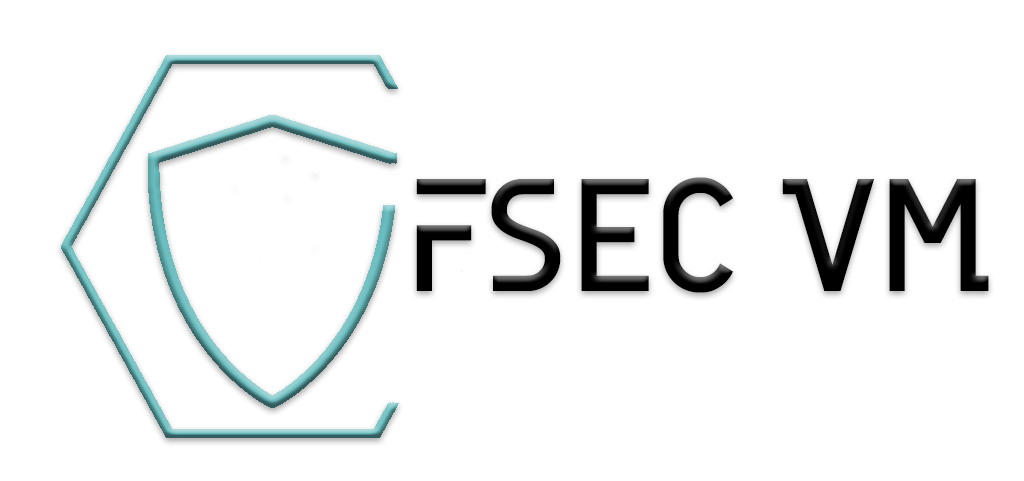
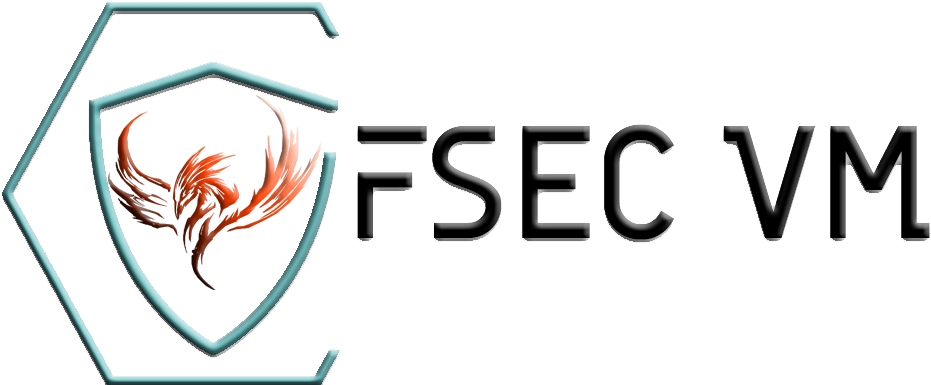
feat: create api hostdiscovery

Changed region(s): [[0.0, 0.0, 1.0, 1.0]]

diff --git a/fsec/templates/base.html b/fsec/templates/base.html
@@ -27,8 +27,7 @@
 <nav class="navbar navbar-expand-lg navbar-light bg-light">
   <div class="container-fluid">
     <a class="navbar-brand" href="/">
-    <img src="{{ url_for('static', filename='images/name.png') }}" alt="FSEC VM" height="20"></a>
-{#      <span class="navbar-toggler-icon"></span>#}
+    <img src="{{ url_for('static', filename='images/logo_name.png') }}" alt="FSEC VM" height="50"></a>
     <div class="collapse navbar-collapse" id="navbarNavAltMarkup">
       <div class="navbar-nav">
[1 lines of base64/hex data omitted]
@@ -41,10 +40,13 @@
[1 lines of base64/hex data omitted]
       </div>
     </div>
+
[1 lines of base64/hex data omitted]
   </div>
 </nav>
+
 {% block content %}
+
 {% endblock %}
 </body>
 

diff --git a/fsec/templates/login.html b/fsec/templates/login.html
@@ -154,7 +154,9 @@
  <div class="row">
  <div class="col-md-8 offset-md-2">
  <form class="form-horizontal" method="POST" action="login">
-<img height="300px" class="center-pic" src="{{ url_for('static', filename='images/fsec.png') }}" />
+ <p></p>
+     <img height="300px" class="center-pic" src="{{ url_for('static', filename='images/logo_name.png') }}" />
+ <p></p>
      {% with messages = get_flashed_messages() %}
         {% if messages %}
         <div class="alert alert-danger">

diff --git a/fsec/templates/inventory.html b/fsec/templates/inventory.html
@@ -1,5 +1,7 @@
 {% extends "base.html" %}
 
 {% block content %}
+<h5><small>ИНВЕНТАРИЗАЦИЯ СЕТИ</small></h5>
+      <hr>
 
 {% endblock %}

diff --git a/fsec/templates/index.html b/fsec/templates/index.html
@@ -1,5 +1,6 @@
 {% extends "base.html" %}
 
 {% block content %}
-
+<h5><small>ГЛАВНАЯ</small></h5>
+      <hr>
 {% endblock %}

diff --git a/fsec/modules/hostdiscovery/hostdiscovery.py b/fsec/modules/hostdiscovery/hostdiscovery.py
@@ -5,12 +5,6 @@ from fsec.database import MessageProducer, MongoDriver
 from datetime import datetime
 
 
-def get_time() -> str:
-    """
-    """
-    return datetime.now().strftime("%H:%M:%S %d.%m.%Y")
-
-
 class AbstractDiscovery:
     """
     """
@@ -70,7 +64,7 @@ class HostDiscovery(AbstractDiscovery):
                 "host": host,
                 "hostname": result[host]["hostname"],
                 "macaddress": result[host]["macaddress"],
-                "time": get_time()
+                "time": datetime.now().strftime("%H:%M:%S %d.%m.%Y")
             }
             data_ip = message_host_discovery.get_message({"host": str(host)})
             if data_ip is None:
@@ -79,7 +73,7 @@ class HostDiscovery(AbstractDiscovery):
                 message_host_discovery.update_message(message={"host": host},
                                                       new_value={"macaddress": result[host]["macaddress"],
                                                                  "hostname": result[host]["hostname"],
-                                                                 "time": get_time()})
+                                                                 "time": datetime.now().strftime("%H:%M:%S %d.%m.%Y")})
 
 
 def result_scanner(abstract_class: AbstractDiscovery):

diff --git a/fsec/__init__.py b/fsec/__init__.py
@@ -1,5 +1,6 @@
 import os
 from flask import Flask
+from flask_cors import CORS
 from flask_sqlalchemy import SQLAlchemy
 from flask_login import LoginManager
 
@@ -10,22 +11,21 @@ def create_app():
     app = Flask(__name__)
     app.config.from_object(os.environ.get('FLASK_ENV') or 'config.DevelopementConfig')
     db.init_app(app)
-
+    CORS(app)
     login_manager = LoginManager()
     login_manager.login_view = 'auth.login'
     login_manager.init_app(app)
-
     from .models import User
 
     @login_manager.user_loader
     def load_user(user_id):
         return User.query.get(int(user_id))
 
-    from .auth import auth as auth_blueprint
-    app.register_blueprint(auth_blueprint)
-    from .views import main as main_blueprint
-    app.register_blueprint(main_blueprint)
-    from .modules.hostdiscovery.api import hostdiscovery as main_blueprint
-    app.register_blueprint(main_blueprint)
+    from .auth import auth
+    from .views import main
+    from .modules.hostdiscovery.api import hostdiscovery
+    app.register_blueprint(auth)
+    app.register_blueprint(main)
+    app.register_blueprint(hostdiscovery)
 
     return app

diff --git a/fsec/modules/hostdiscovery/api.py b/fsec/modules/hostdiscovery/api.py
@@ -1,13 +1,15 @@
-from flask import Blueprint
+from flask import Blueprint, jsonify
+from flask_login import login_required
 from fsec.modules.hostdiscovery.hostdiscovery import result_scanner, HostDiscovery
 
 hostdiscovery = Blueprint('hostdiscovery', __name__)
 
 
 @hostdiscovery.route('/api/v1/host/discover/', methods=['POST'])
+@login_required
 def hdiscovery_index():
     """
     дописать .....
     """
     result_scanner(HostDiscovery('192.168.1.0/24'))
-    return {"status": "OK"}
+    return jsonify(success=True)

diff --git a/fsec/views.py b/fsec/views.py
@@ -1,5 +1,5 @@
 from flask import Blueprint, render_template
-from flask_login import login_required, current_user
+from flask_login import login_required
 
 main = Blueprint('main', __name__)
 

diff --git a/fsec.py b/fsec.py
@@ -1,7 +1,5 @@
 from fsec import create_app
 
 if __name__ == '__main__':
-    # manager.run()
     app = create_app()
     app.run(host='0.0.0.0', port=8000)
-
